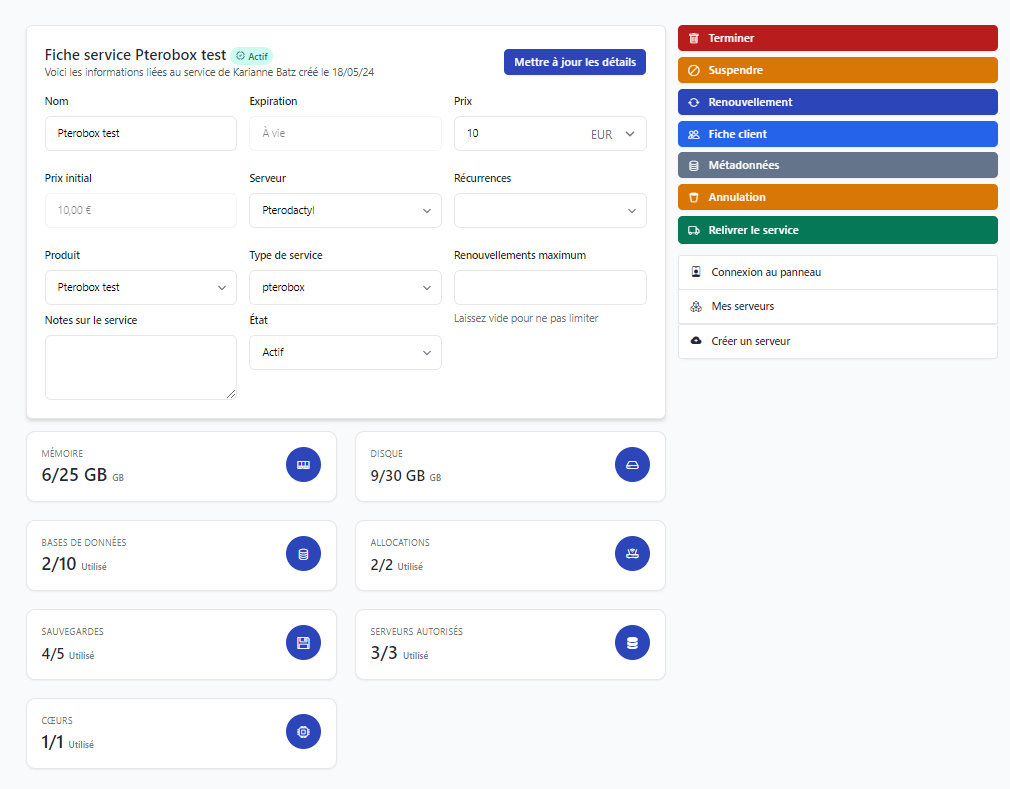
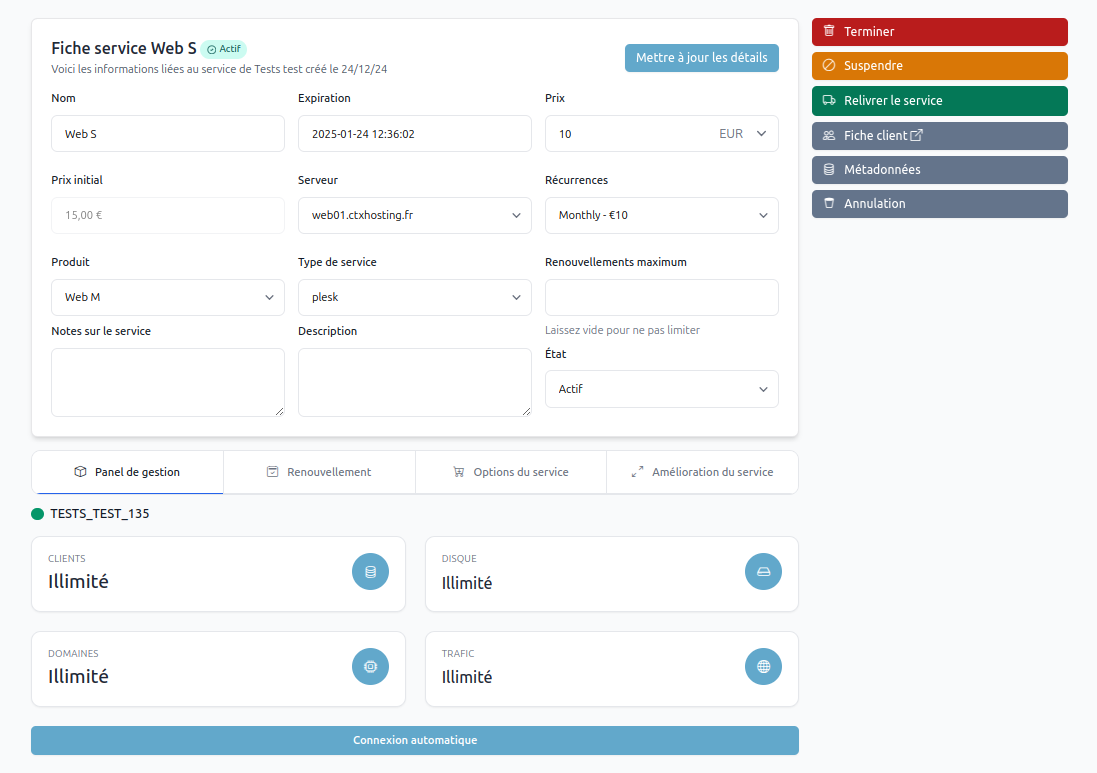
fix: pterodactyl

diff --git a/docs/services.md b/docs/services.md
@@ -41,7 +41,7 @@ Dans cette seconde étape, vous pouvez remplir le formulaire et choisir selon le
 - **Serveur** : Serveur où le service est hébergé
 - **Recurrence** : Cycle de facturation
 - **Notes** : Notes sur le service
-- **Renouvellement maximum** : Nombre maximum de renouvellement (vide pour illimité)
+- **Renouvellement maximum** : Nombre maximum de renouvellements (vide pour illimité)
 ## Création de service
 Il est disponible de créer un service depuis CLIENTXCMS, Pour y accéder : `Espace Administration` > `Services` > `Créer`
 
@@ -55,12 +55,13 @@ Dans cette seconde étape, vous pouvez remplir le formulaire et choisir selon le
 
 - **Nom du service** : Nom du service
 - **Expiration** : Date d'expiration du service
+- **Description** : Description du service - visible par le client, non modifiable par le client
 - **Prix** : Prix du service
 - **Prix initial** : Prix initial du service
 - **Serveur** : Serveur où le service est hébergé
 - **Recurrence** : Cycle de facturation
 - **Notes** : Notes sur le service
-- **Renouvellement maximum** : Nombre maximum de renouvellement (vide pour illimité)
+- **Renouvellement maximum** : Nombre maximum de renouvellements (vide pour illimité)
 
 ![img](/img/next_gen/services/create_service.png)
 
@@ -70,6 +71,40 @@ La création et l'importation de service ne créent pas de facture, il faudra pa
 ## Détails d'un service
 Vous pouvez voir les détails d'un service en cliquant sur le bouton "Afficher" sur la page des services. Celle-ci comporte beaucoup d'informations sur le service, le client, les renouvellements. Cela permets d'avoir une vue d'ensemble sur le service.
 ![img](/img/next_gen/services/show_service.png)
+
+import Tabs from '@theme/Tabs';
+import TabItem from '@theme/TabItem';
+
+<Tabs>
+<TabItem value="Panel" label="Panel de gestion">
+Le panel est disponible pour les services qui ont un panel de gestion.
+Vous pouvez voir le panel de gestion du service, cela dépend du module de livraison.
+
+![img](/img/next_gen/services/panel.png)
+
+</TabItem>
+<TabItem value="Renouvellement" label="Renouvellement">
+Permet de voir les renouvellements du service ainsi que de renouveler le service sur un cycle de facturation.
+Vous pouvez également rajouter le renouvellement sur une facture existante.
+![img](/img/next_gen/services/renewal.png)
+</TabItem>
+<TabItem value="Options" label="Options du service">
+Permet de voir les options supplémentaires du service. Vous pouvez aussi les modifier ou en rajouter.
+![img](/img/next_gen/services/options.png)
+
+Lors que vous rajoutiez une option, elle sera ajoutée avec la même date d'expiration que le service.
+:::warning
+Les options ajoutées ne seront pas automatiquement ajoutées sur le service, il faudra les rajouter manuellement. Cela permet uniquement de rajouter des options supplémentaires sur le système et pouvoir le facturer au client.
+:::
+</TabItem>
+<TabItem value="Amélioration" label="Améloration du service">
+Permet de lancé une amélioration sur le service et affiche les améliorations en cours.
+Type d'améliorations :
+- **Générer une facture à payer par le client** : Génère une facture à payer par le client
+- **Améliorer sans facturer** : Améliore le service sans facturer le client
+![img](/img/next_gen/services/upgrade.png)
+</TabItem>
+</Tabs>
 ### Edition
 Vous pouvez modifier les détails du service en modifiant les champs puis en cliquant sur le bouton d'édition.
 ![img](/img/next_gen/services/edit_service.png)
@@ -81,7 +116,8 @@ Vous pouvez modifier les détails du service en modifiant les champs puis en cli
 - **Serveur** : Serveur où le service est hébergé
 - **Recurrence** : Cycle de facturation
 - **Notes** : Notes sur le service
-- **Renouvellement maximum** : Nombre maximum de renouvellement (vide pour illimité)
+- **Description** : Description du service - visible par le client, non modifiable par le client
+- **Renouvellement maximum** : Nombre maximum de renouvellements (vide pour illimité)
 - **Etat** : Etat du service
 - **Type de service** : Type de service
 :::info
@@ -89,33 +125,56 @@ Nous conseillons de pas modifier le statut du service, via l'édition. Il est pr
 :::
 ### Actions
 ![img](/img/next_gen/services/actions.png)
-##### Terminer
+
+<Tabs>
+<TabItem value="Terminer" label="Terminer">
 Le service sera supprimé du serveur, l'état du service sera défini en en tant que terminé.
-##### Suspendre/Unsuspend
+</TabItem>
+<TabItem value="Suspendre/Unsuspend" label="Suspendre/Unsuspend">
 Vous pouvez suspendre ou unsuspendre un service. En cas de suspension, le service sera suspendu du serveur, l'état du service sera défini en en tant que suspendu. En cas d'unsuspend, le service sera réactivé sur le serveur et l'état du service sera redéfini en tant que en ligne.
 Vous pouvez ajouter une raison ou notifié le client.
-##### Renouvellement
-Permet de voir les renouvellements du service ainsi que de renouveler le service sur un cycle de facturation.
-Vous pouvez également rajouter le renouvellement sur une facture existante.
-##### Fiche client
+
+![img](/img/next_gen/services/suspend.png)
+</TabItem>
+<TabItem value="Fiche client" label="Fiche client">
 Redirige vers la fiche client du client lié au service
-#### Metadonnées
-Permet de voir les métadonnées du service et de les modifier. Cela affiche également les données de la commande.
-#### Annulation
+![img](/img/next_gen/customers/show.png)
+</TabItem>
+<TabItem value="Metadonnées" label="Metadonnées">
+
+Les métadonnées permettent de rajouter des informations supplémentaires sur le service. Cela peut être utile pour rajouter des informations supplémentaires sur le service.
+Les métadonnées sont des informations supplémentaires sur le service. Elles sont stockées sous forme de clé/valeur.
+
+#### Metadonnées disponibles
+-------------
+| Clé                             | Valeur | Description                                              |
+|---------------------------------|--------|----------------------------------------------------------|
+| `max_renewals_in_current_month` | nbr    | L imite le nombre de renouvellement pour le mois courant |
+| `max_renewals_in_current_week`  | 1      | Nombre de renouvellements maximum par semaine            |
+| `max_renewals`                  | 1      | Nombre de renouvellements maximum                        |
+| `disable_notify_expiration`     | true   | Désactive les notifications d'expiration                 |
+-------------
+</TabItem>
+<TabItem value="Annulation" label="Annulation">
 Permet d'annuler le service ou de voir les détails de l'annulation.
 Il y a deux types d'annulation :
 - Annulation à la fin du cycle : Le service sera annulé à la fin du cycle de facturation
 - Annulation immédiate : Le service sera annulé immédiatement
-#### Relivrer
+
+![img](/img/next_gen/services/cancel.png)
+</TabItem>
+<TabItem value="Relivrer" label="Relivrer">
 Permet de relivrer le service. Il va forcer la suppression du service et le recréer.
+:::info
+Le service doit être en état en attente pour être relivré.
+:::
+</TabItem>
+</Tabs>
+
 ### Sous page
 ![img](/img/next_gen/services/tab.png)
 
 Il peut avoir que le module de livraison dispose de plusieurs onglets pour mieux organiser les informations.
-### Panel
-![img](/img/next_gen/services/panel.png)
-
-Le panel est disponible pour les services qui ont un panel de gestion. Il permet de voir les informations du services ou de le réinstaller.
 ### Cycle de facturation
 Les cycles de facturation permettent de définir la période de facturation pour un produit. Voici les cycles de facturation disponibles :
 - Mensuel
@@ -125,18 +184,3 @@ Les cycles de facturation permettent de définir la période de facturation pour
 - Biannuel
 - Triennal
 - Hebdomadaire
-### Améliorations
-
-### Options supplémentaires
-
-### Abonnements
-
-### Metadonnées
--------------
-| Clé | Valeur | Description |
-| --- | ------ | ----------- |
-| `max_renewals_in_current_month` | nbr | L imite le nombre de renouvellement pour le mois courant |
-| `max_renewals_in_current_week`  | 1 | Nombre de renouvellements maximum par semaine                   |
-| `max_renewals` | 1 | Nombre de renouvellements maximum |
-| `disable_notify_expiration` | true | Désactive les notifications d'expiration |
--------------

diff --git a/docs/getting_started/service.md b/docs/getting_started/service.md
@@ -2,3 +2,36 @@
 sidebar_position: 7
 ---
 # Créer son premier service
+Vous pouvez créer un service en quelques clics depuis votre espace client. Pour cela, rendez-vous sur `Espace Administation` > `Services` > `Créer`.
+
+Dans cette étape, veuillez sélectionner le client, le produit que vous avez créé et le type de service. Puis cliquez sur suivant.
+![img](/img/next_gen/services/create_step1.png)
+
+Dans cette seconde étape, vous pouvez remplir le formulaire et choisir selon le type de module, les VPS ou serveurs de jeux déjà existants que vous avez sur votre serveur. Puis cliquez sur importer
+
+- **Nom du service** : Nom du service
+- **Expiration** : Date d'expiration du service
+- **Description** : Description du service - visible par le client, non modifiable par le client
+- **Prix** : Prix du service
+- **Prix initial** : Prix initial du service
+- **Serveur** : Serveur où le service est hébergé
+- **Recurrence** : Cycle de facturation
+- **Notes** : Notes sur le service
+- **Renouvellement maximum** : Nombre maximum de renouvellements (vide pour illimité)
+
+![img](/img/next_gen/services/create_service.png)
+
+:::info
+La création ne crée pas de facture, il faudra passer par une commande sur votre compte client pour générer une facture.
+:::
+
+## Problème de livraison
+
+Si vous avez un problème de livraison de service, rendez-vous sur `Espace Administation` > `Paramètres` > `Historique` et recherchez le fichier 'services-delivery.log'. Vous pouvez également consulter la page du module d'approvisionnement pour plus d'informations.
+![img](/img/next_gen/services/delivery_log.png)
+
+Par exemple, dans ce cas de figure, le service n'a pas pu être livré, car le pterodactyl n'a plus d'allocation disponible. Plus d'informations sur la configuration du module Pterodactyl [ici](/extensions/modules/pterodactyl#erreurs-courantes).
+
+## Aperçu d'un service
+Voici un aperçu d'un service.
+![img](/img/next_gen/services/show_service.png)

diff --git a/docs/settings/provisioning/configoptions.md b/docs/settings/provisioning/configoptions.md
@@ -1,5 +1,5 @@
 # Options supplémentaires
-Les options supplémentaires sont des fonctionnalités qui peuvent être ajoutées à un service lors de la commande ou après pour le personnaliser davantage. 
+Les options supplémentaires sont des fonctionnalités qui peuvent être ajoutées à un service lors de la commande ou après pour le personnaliser davantage. Celle-ci ont un coût supplémentaire et peuvent être synchronisées avec le même cycle de facturation que le service ou avoir une date d'expiration différente.
 
 ## Types d'options disponibles
 - **Curseurs** : Les curseurs permettent de définir des valeurs personnalisées à partir d'un prix unitaire.
@@ -75,3 +75,6 @@ Nous conseillons de définir un prix pour chaque récurrence pour chaque option.
 :::
 
 Verifiez bien que l'option n'est pas caché pour être visible lors de la commande.
+
+## Ajout d'une option à un service
+Pour ajouter une option à un service, rendez-vous sur la page du service et cliquez sur la section "Options du service". 

diff --git a/docs/settings/security/history.md b/docs/settings/security/history.md
@@ -6,7 +6,7 @@ sidebar_position: 4
 
 Des fichiers de logs permettent de garder une trace des erreurs ou des actions effectuées par les tâches planifiées. Vous pouvez consulter ces logs depuis la page **Historique** accèsible depuis les `Paramètres` > `Sécurité` > `Historique`.
 ## Tâches planifiées
-Les résultats de chaque planifiées sont enregistrés dans les logs à partir d'un fichier journal souvent appeler comme le nom de la commande. Par exemple : 
+Les résultats de chaques tâches planifiées sont enregistrés dans les logs à partir d'un fichier journal souvent appeler comme le nom de la commande. Par exemple : 
 - `services-delivery.log` pour la commande `services:delivery`
 - `services-expire.log` pour la commande `services:expire`
 - `services-renewals.log` pour la commande `services:renewals`

diff --git a/docs/extensions/modules/Pterodactyl.md b/docs/extensions/modules/Pterodactyl.md
@@ -105,3 +105,5 @@ Lors d'une commande, le client pourra renseigner la valeur de cette variable d'e
 ## Erreurs courantes
 
 Oeuf non trouvé dans la configuration de l'offre : Il faut vider le cache de CLIENTXCMS dans `Paramètres` > `Extensions`.
+
+**No allocations satisfying the requirements for automatic deployment were found.** : Vérifiez que vous avez bien des allocations disponibles sur votre node Pterodactyl ou que la création automatique d'allocation est activée dans les paramètres avancés de votre pterodactyl.
